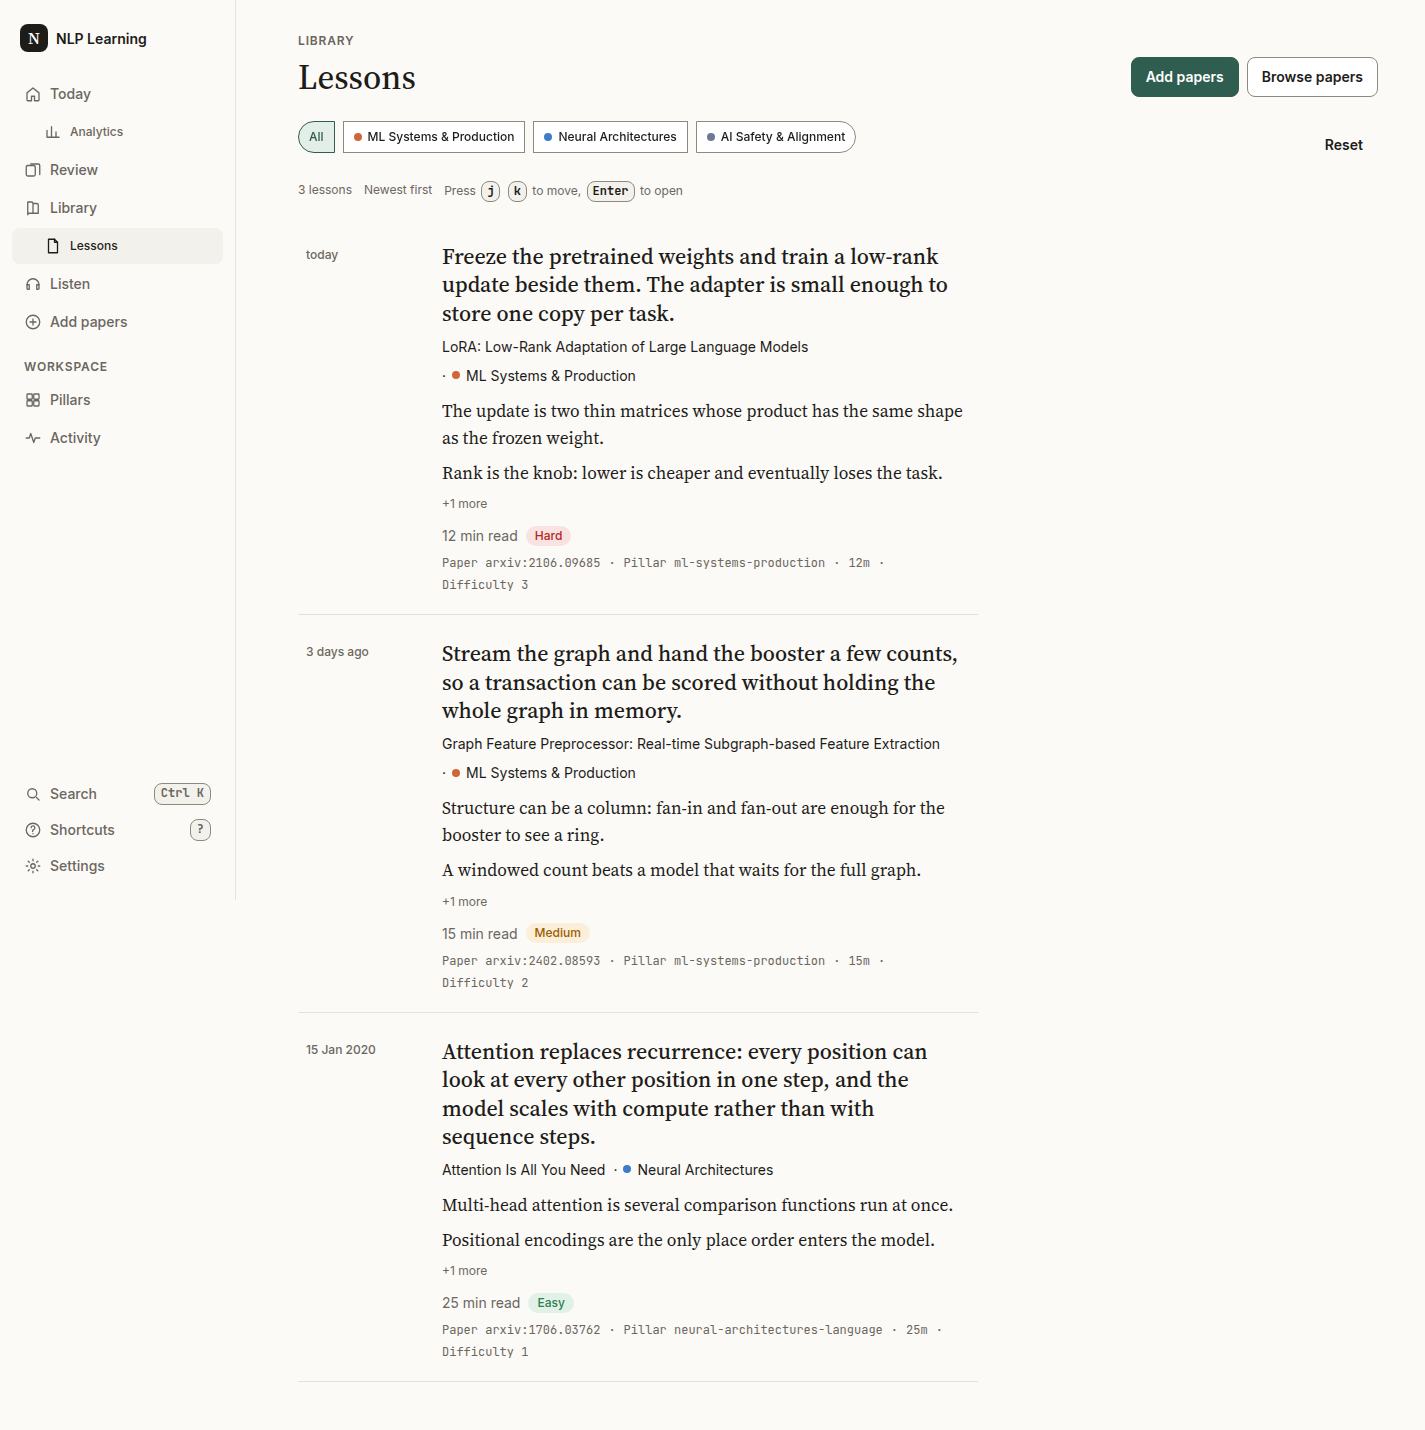
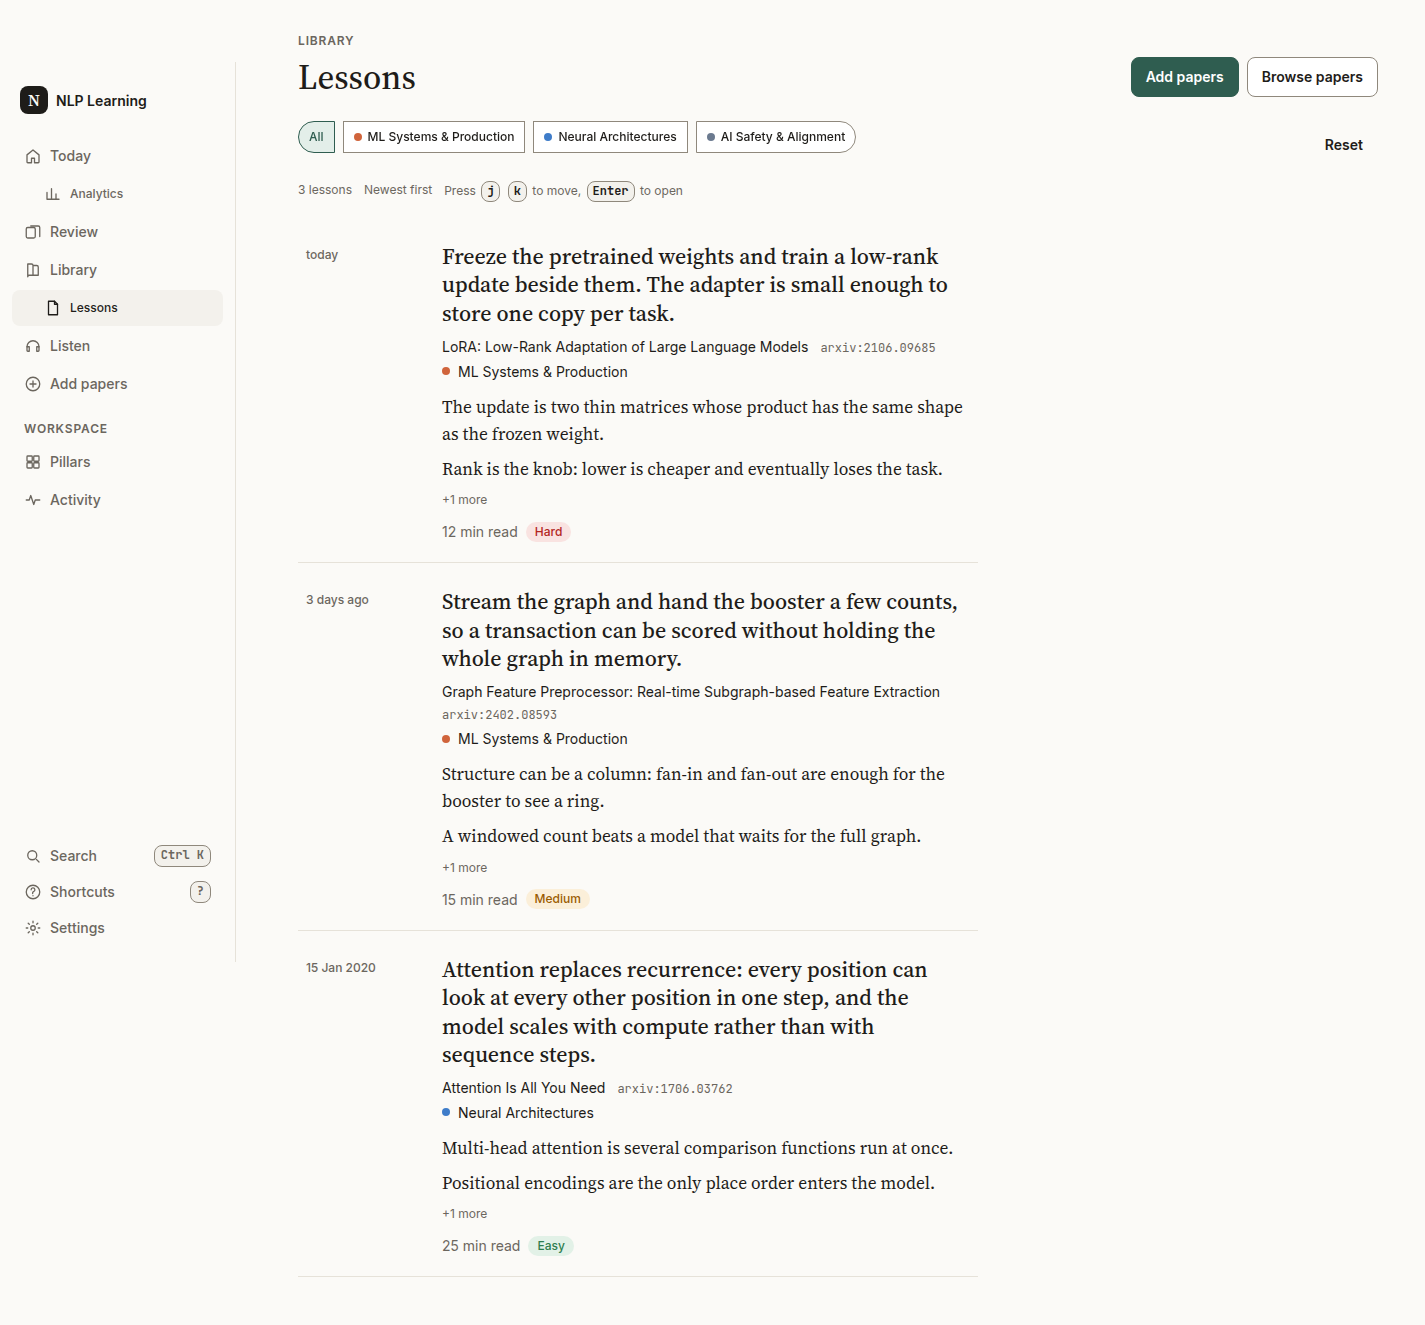
Drop the raw lesson metadata line and the wrapping separator.
The monospace line repeated the pillar slug, the minutes, and the numeric difficulty. The paper id stays as a muted chip, and the pillar name sits on its own row so a wrapped title never starts with a dot.

diff --git a/webui/templates/lessons.html b/webui/templates/lessons.html
@@ -57,15 +57,17 @@
       <span class="lesson-main">
         <h2 class="lesson-title">{{ row.title }}</h2>
         <p class="lesson-source">
-          <span class="lesson-paper-title">{{ row.paper_title }}</span>
-          {% if row.pillar_name %}
-          <span class="pillar-inline {{ row.pillar_class }}">
-            <span aria-hidden="true">·</span>
-            {% if row.pillar_class %}<span class="pillar-dot" aria-hidden="true"></span>{% endif %}
-            {{ row.pillar_name }}
-          </span>
+          <span class="lesson-paper-title"{% if row.paper_id %} title="{{ row.paper_id }}"{% endif %}>{{ row.paper_title }}</span>
+          {% if row.paper_id and row.paper_title != row.paper_id %}
+          <span class="lesson-paper-id">{{ row.paper_id }}</span>
           {% endif %}
         </p>
+        {% if row.pillar_name %}
+        <p class="lesson-pillar {{ row.pillar_class }}">
+          {% if row.pillar_class %}<span class="pillar-dot" aria-hidden="true"></span>{% endif %}
+          {{ row.pillar_name }}
+        </p>
+        {% endif %}
         {% if row.preview %}
         <ul class="lesson-preview">
           {% for item in row.preview %}<li>{{ item }}</li>{% endfor %}
@@ -80,12 +82,6 @@
           {% if row.difficulty_label %}{{ chip(row.difficulty_label, row.difficulty_variant) }}{% endif %}
         </p>
         {% endif %}
-        <p class="lesson-record">
-          {% if row.paper_id %}<span>Paper <span class="lesson-paper-id">{{ row.paper_id }}</span></span>{% endif %}
-          {% if row.pillar_id %}<span>Pillar <span class="lesson-pillar-id">{{ row.pillar_id }}</span></span>{% endif %}
-          {% if row.time_compact %}<span class="lesson-time">{{ row.time_compact }}</span>{% endif %}
-          {% if row.difficulty_number %}<span>Difficulty <span class="lesson-difficulty">{{ row.difficulty_number }}</span></span>{% endif %}
-        </p>
       </span>
     {% if row.href %}</a>{% else %}</div>{% endif %}
   </li>

diff --git a/webui/static/app.css b/webui/static/app.css
@@ -3269,16 +3269,35 @@ html[data-theme="cockpit"] .lesson-title {
 .lesson-source {
   display: flex;
   flex-wrap: wrap;
-  gap: var(--space-2);
-  align-items: center;
+  gap: var(--space-1) var(--space-3);
+  align-items: baseline;
   margin: var(--space-2) 0 0;
   color: var(--muted);
   font-size: var(--fs-ui);
 }
 
-.lesson-paper-title { color: var(--text); }
+.lesson-paper-title {
+  min-width: 0;
+  color: var(--text);
+  overflow-wrap: anywhere;
+}
 
-.lesson-source .pillar-inline { color: var(--text); }
+.lesson-paper-id {
+  flex: none;
+  color: var(--muted);
+  font-family: var(--font-mono);
+  font-size: var(--fs-caption);
+  white-space: nowrap;
+}
+
+.lesson-pillar {
+  display: flex;
+  align-items: center;
+  gap: var(--space-2);
+  margin: var(--space-1) 0 0;
+  color: var(--text);
+  font-size: var(--fs-ui);
+}
 
 .lesson-preview {
   margin: var(--space-3) 0 0;
@@ -3317,24 +3336,6 @@ html[data-theme="cockpit"] .lesson-preview {
   align-items: center;
   margin: var(--space-3) 0 0;
   color: var(--muted);
-}
-
-.lesson-record {
-  display: flex;
-  flex-wrap: wrap;
-  gap: var(--space-1) 0;
-  margin: var(--space-2) 0 0;
-  color: var(--muted);
-  font-family: var(--font-mono);
-  font-size: var(--fs-caption);
-}
-
-.lesson-record > span { white-space: nowrap; }
-
-.lesson-record > span:not(:last-child)::after {
-  content: "·";
-  margin-left: var(--space-2);
-  margin-right: var(--space-2);
 }
 
 @media (max-width: 859px) {

diff --git a/tests/webui/test_lessons_page.py b/tests/webui/test_lessons_page.py
@@ -1,7 +1,8 @@
 """Lessons reading list.
 
 The paper page Lesson tab stays the reading surface. This page is the list
-that opens it, and every field the old table showed is still in the row.
+that opens it. Reading time and difficulty stay in words, the pillar is its
+name, and the paper id is a muted chip (or the title, when that is all we have).
 """
 
 from datetime import date
@@ -189,10 +190,12 @@ def test_lessons_page_is_a_reading_list_linked_to_the_paper(client):
     assert "+1 more" in body
     assert "15 min read" in body
     assert ">Medium<" in body
-    assert 'class="lesson-difficulty">2<' in body
-    assert 'class="lesson-time">15m<' in body
     assert 'class="lesson-paper-id">arxiv:2402.08593<' in body
-    assert 'class="lesson-pillar-id">ml-systems-production<' in body
+    assert 'title="arxiv:2402.08593"' in body
+    assert "lesson-record" not in body
+    assert "lesson-pillar-id" not in body
+    assert ">15m<" not in body
+    assert ">·<" not in body
     assert 'href="/papers/arxiv%3A2402.08593#lesson"' in body
     assert "15 Jan 2020" in body
     assert "2020-01-15T12:00:00" not in body
@@ -276,6 +279,6 @@ def test_missing_titles_keep_the_paper_id(client, monkeypatch):
     body = client.get("/lessons/").text
     assert "Paper titles could not be loaded" in body
     assert "Streams the graph and feeds counts to a booster." in body
-    assert 'class="lesson-paper-id">arxiv:2402.08593<' in body
+    assert 'class="lesson-paper-title" title="arxiv:2402.08593">arxiv:2402.08593<' in body
     assert "Graph Feature Preprocessor" not in body
     assert 'href="/papers/arxiv%3A2402.08593#lesson"' in body
